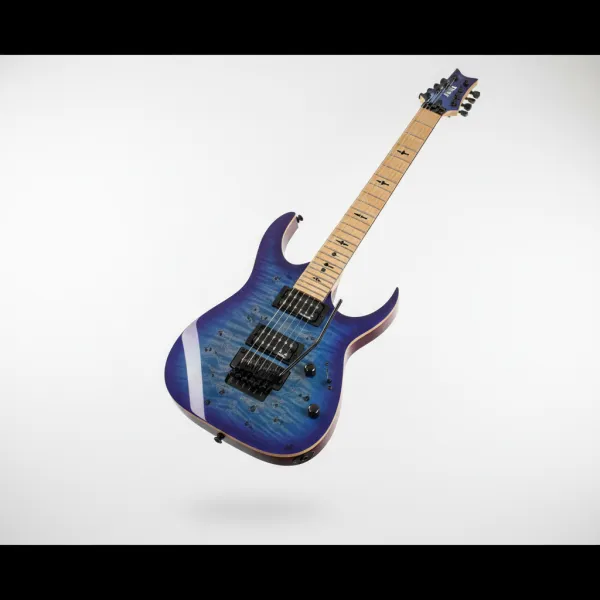
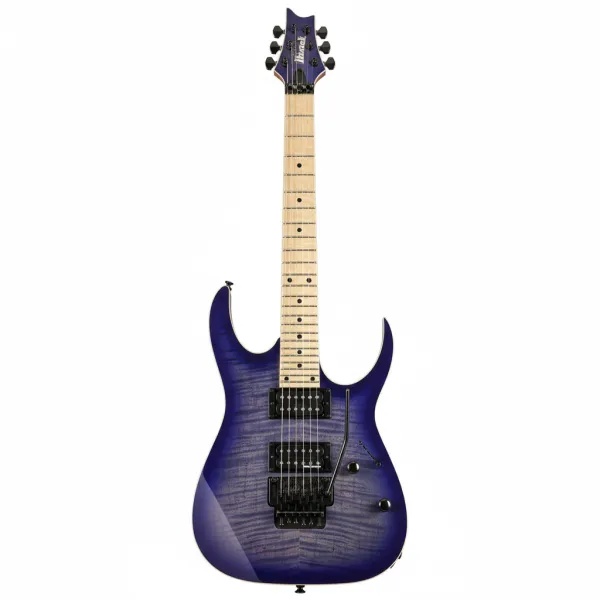
fix: 絵文字削除、ギター画像を白背景で統一再生成、スキル追記
- 絵文字（🎸📋🔍）削除
- ギター製品画像6枚: 全てpure white backgroundで再生成
- スキル追記: 絵文字禁止ルール、製品画像背景統一ルール

diff --git a/electric-guitar/index.html b/electric-guitar/index.html
@@ -351,9 +351,9 @@ ul,ol{list-style:none}
 <p style="font-size:0.85rem;color:var(--color-text-light);margin-bottom:0.5rem">状態が悪いのに、査定してもらえるか不安…そんなお悩みございませんか？</p>
 <h2 style="font-family:var(--font-mincho);font-size:1.5rem;font-weight:900;color:var(--color-terra);margin-bottom:2rem">どのような状態でも丁寧に査定します！</h2>
 <div class="condition-grid">
-<div class="condition-item"><div class="condition-badge">買取OK</div><div class="condition-icon">🎸</div><div class="condition-label">古いモデル</div></div>
-<div class="condition-item"><div class="condition-badge">買取OK</div><div class="condition-icon">📋</div><div class="condition-label">ケース・保証書等の<br>付属品が無い</div></div>
-<div class="condition-item"><div class="condition-badge">買取OK</div><div class="condition-icon">🔍</div><div class="condition-label">キズや塗装剥がれ、<br>汚れ、サビがある</div></div>
+<div class="condition-item"><div class="condition-badge">買取OK</div><div class="condition-label">古いモデル</div></div>
+<div class="condition-item"><div class="condition-badge">買取OK</div><div class="condition-label">ケース・保証書等の<br>付属品が無い</div></div>
+<div class="condition-item"><div class="condition-badge">買取OK</div><div class="condition-label">キズや塗装剥がれ、<br>汚れ、サビがある</div></div>
 </div>
 </div>
 </section>
